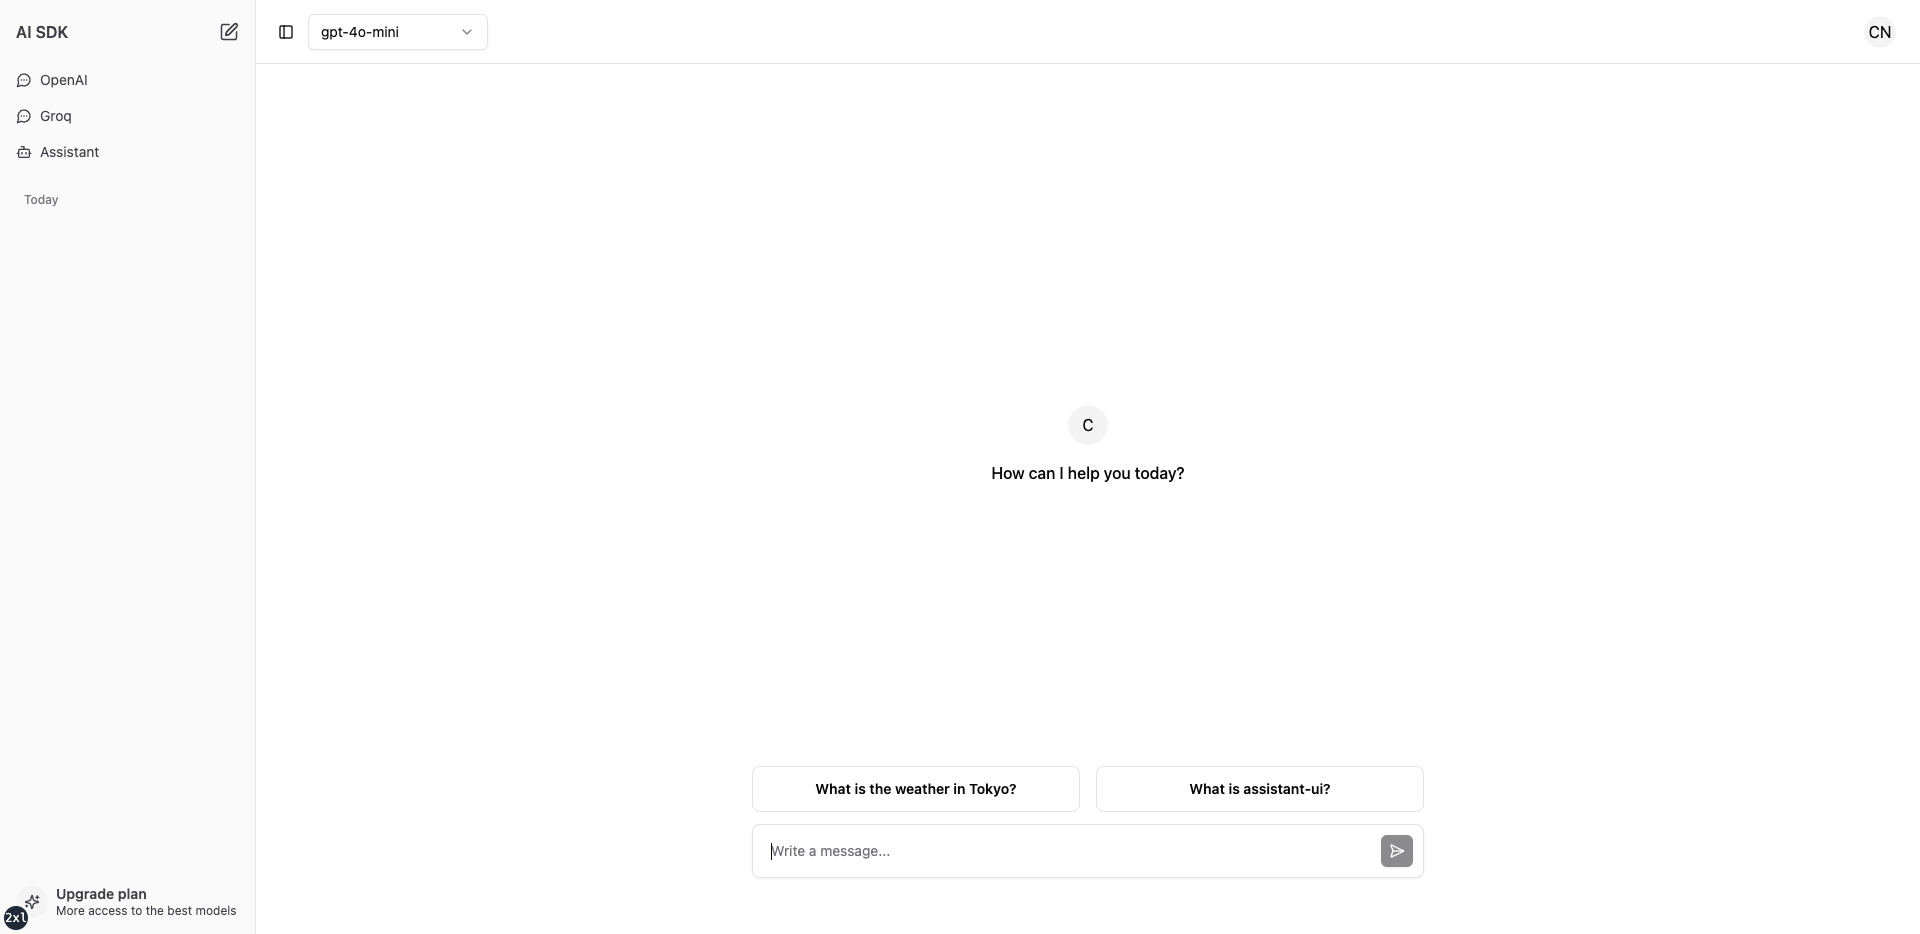
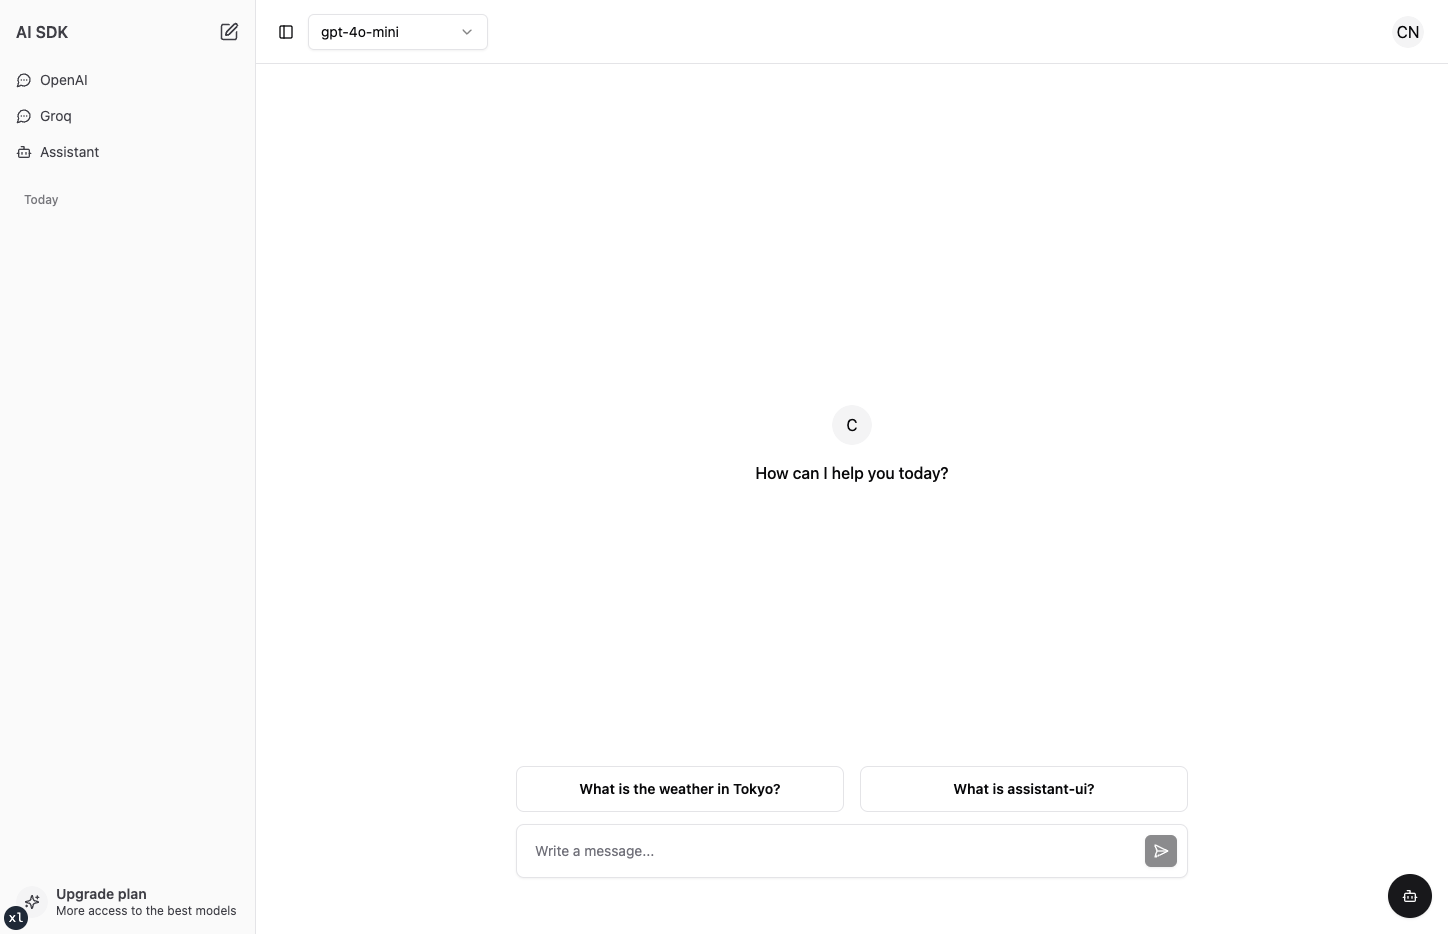
Add chat modal

diff --git a/app/layout.tsx b/app/layout.tsx
@@ -4,6 +4,7 @@ import './globals.css'
 
 import { Toaster } from '@/components/ui/sonner'
 import { TailwindIndicator } from '@/components/tailwind-indicator'
+import { ChatbotModal } from '@/components/chatbot-modal'
 
 export const metadata: Metadata = {
   title: 'Create Next App',
@@ -19,6 +20,7 @@ export default function RootLayout({
     <html lang="en">
       <body>
         {children}
+        <ChatbotModal />
         <Toaster richColors closeButton />
         <TailwindIndicator />
       </body>

diff --git a/components/chatbot-modal.tsx b/components/chatbot-modal.tsx
@@ -1,0 +1,12 @@
+import * as React from 'react'
+
+import { ChatProvider } from '@/context/chat-provider'
+import { AssistantModal } from '@/components/assistant-ui/assistant-modal'
+
+export function ChatbotModal() {
+  return (
+    <ChatProvider api="/api/chat">
+      <AssistantModal />
+    </ChatProvider>
+  )
+}
